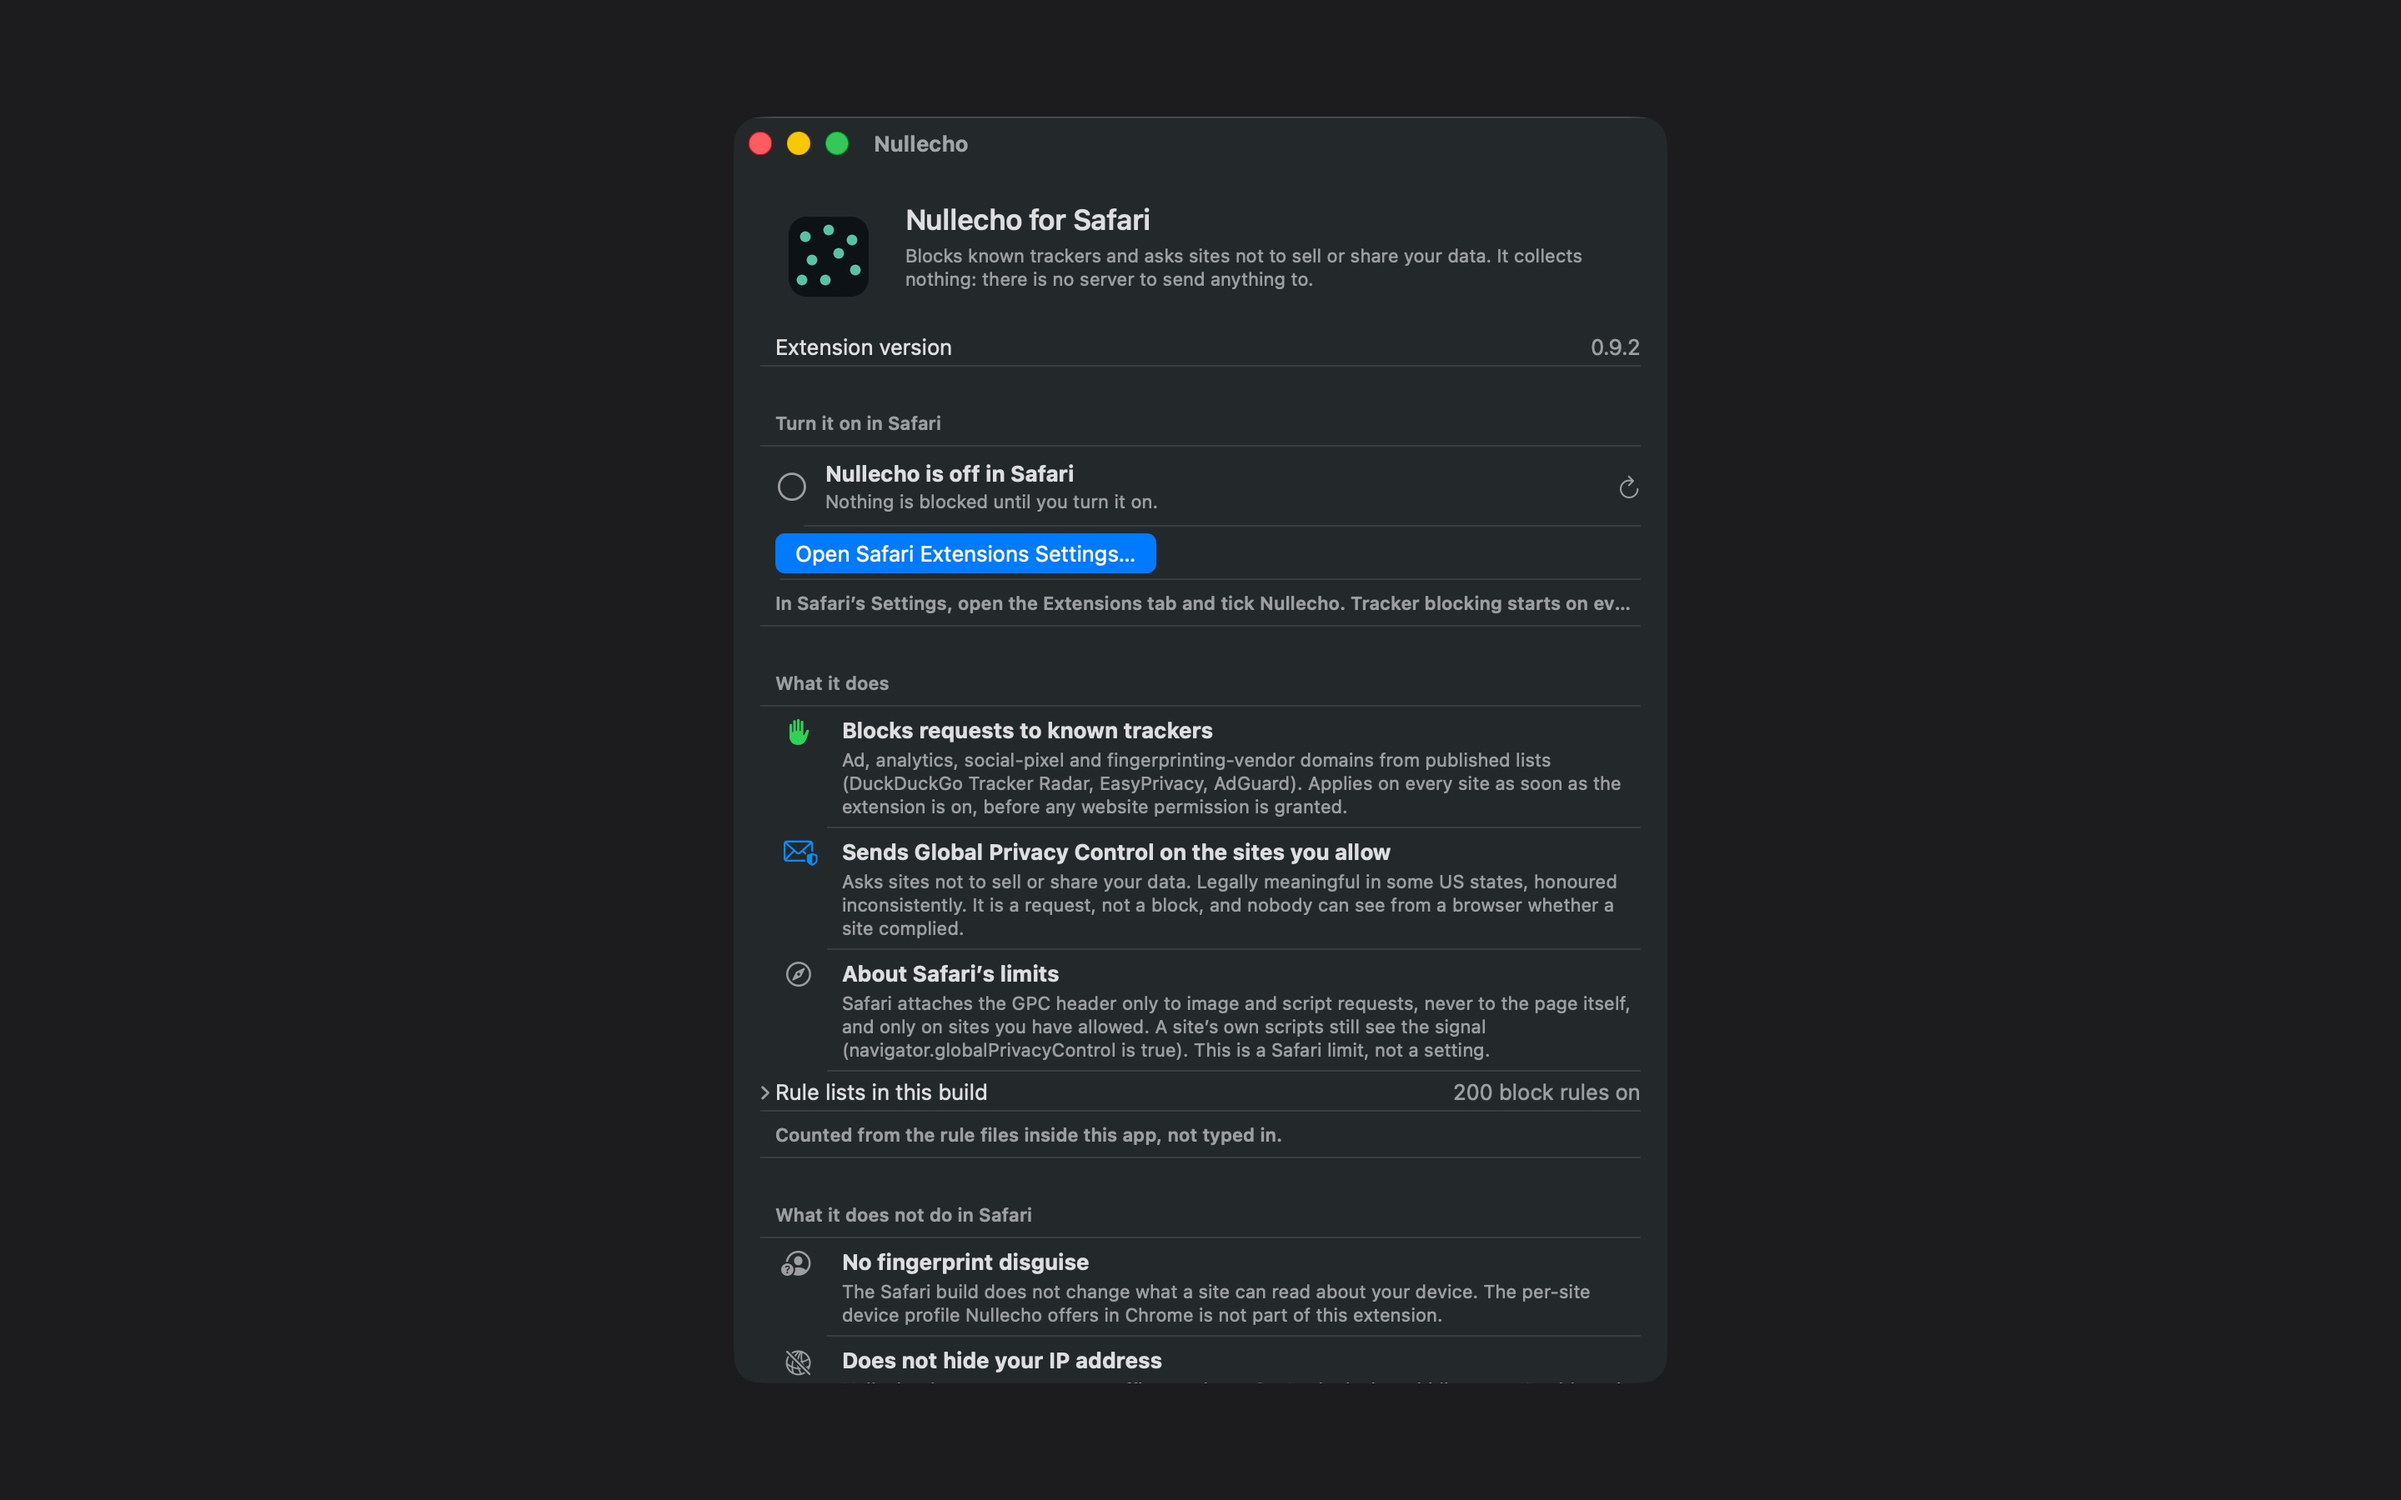
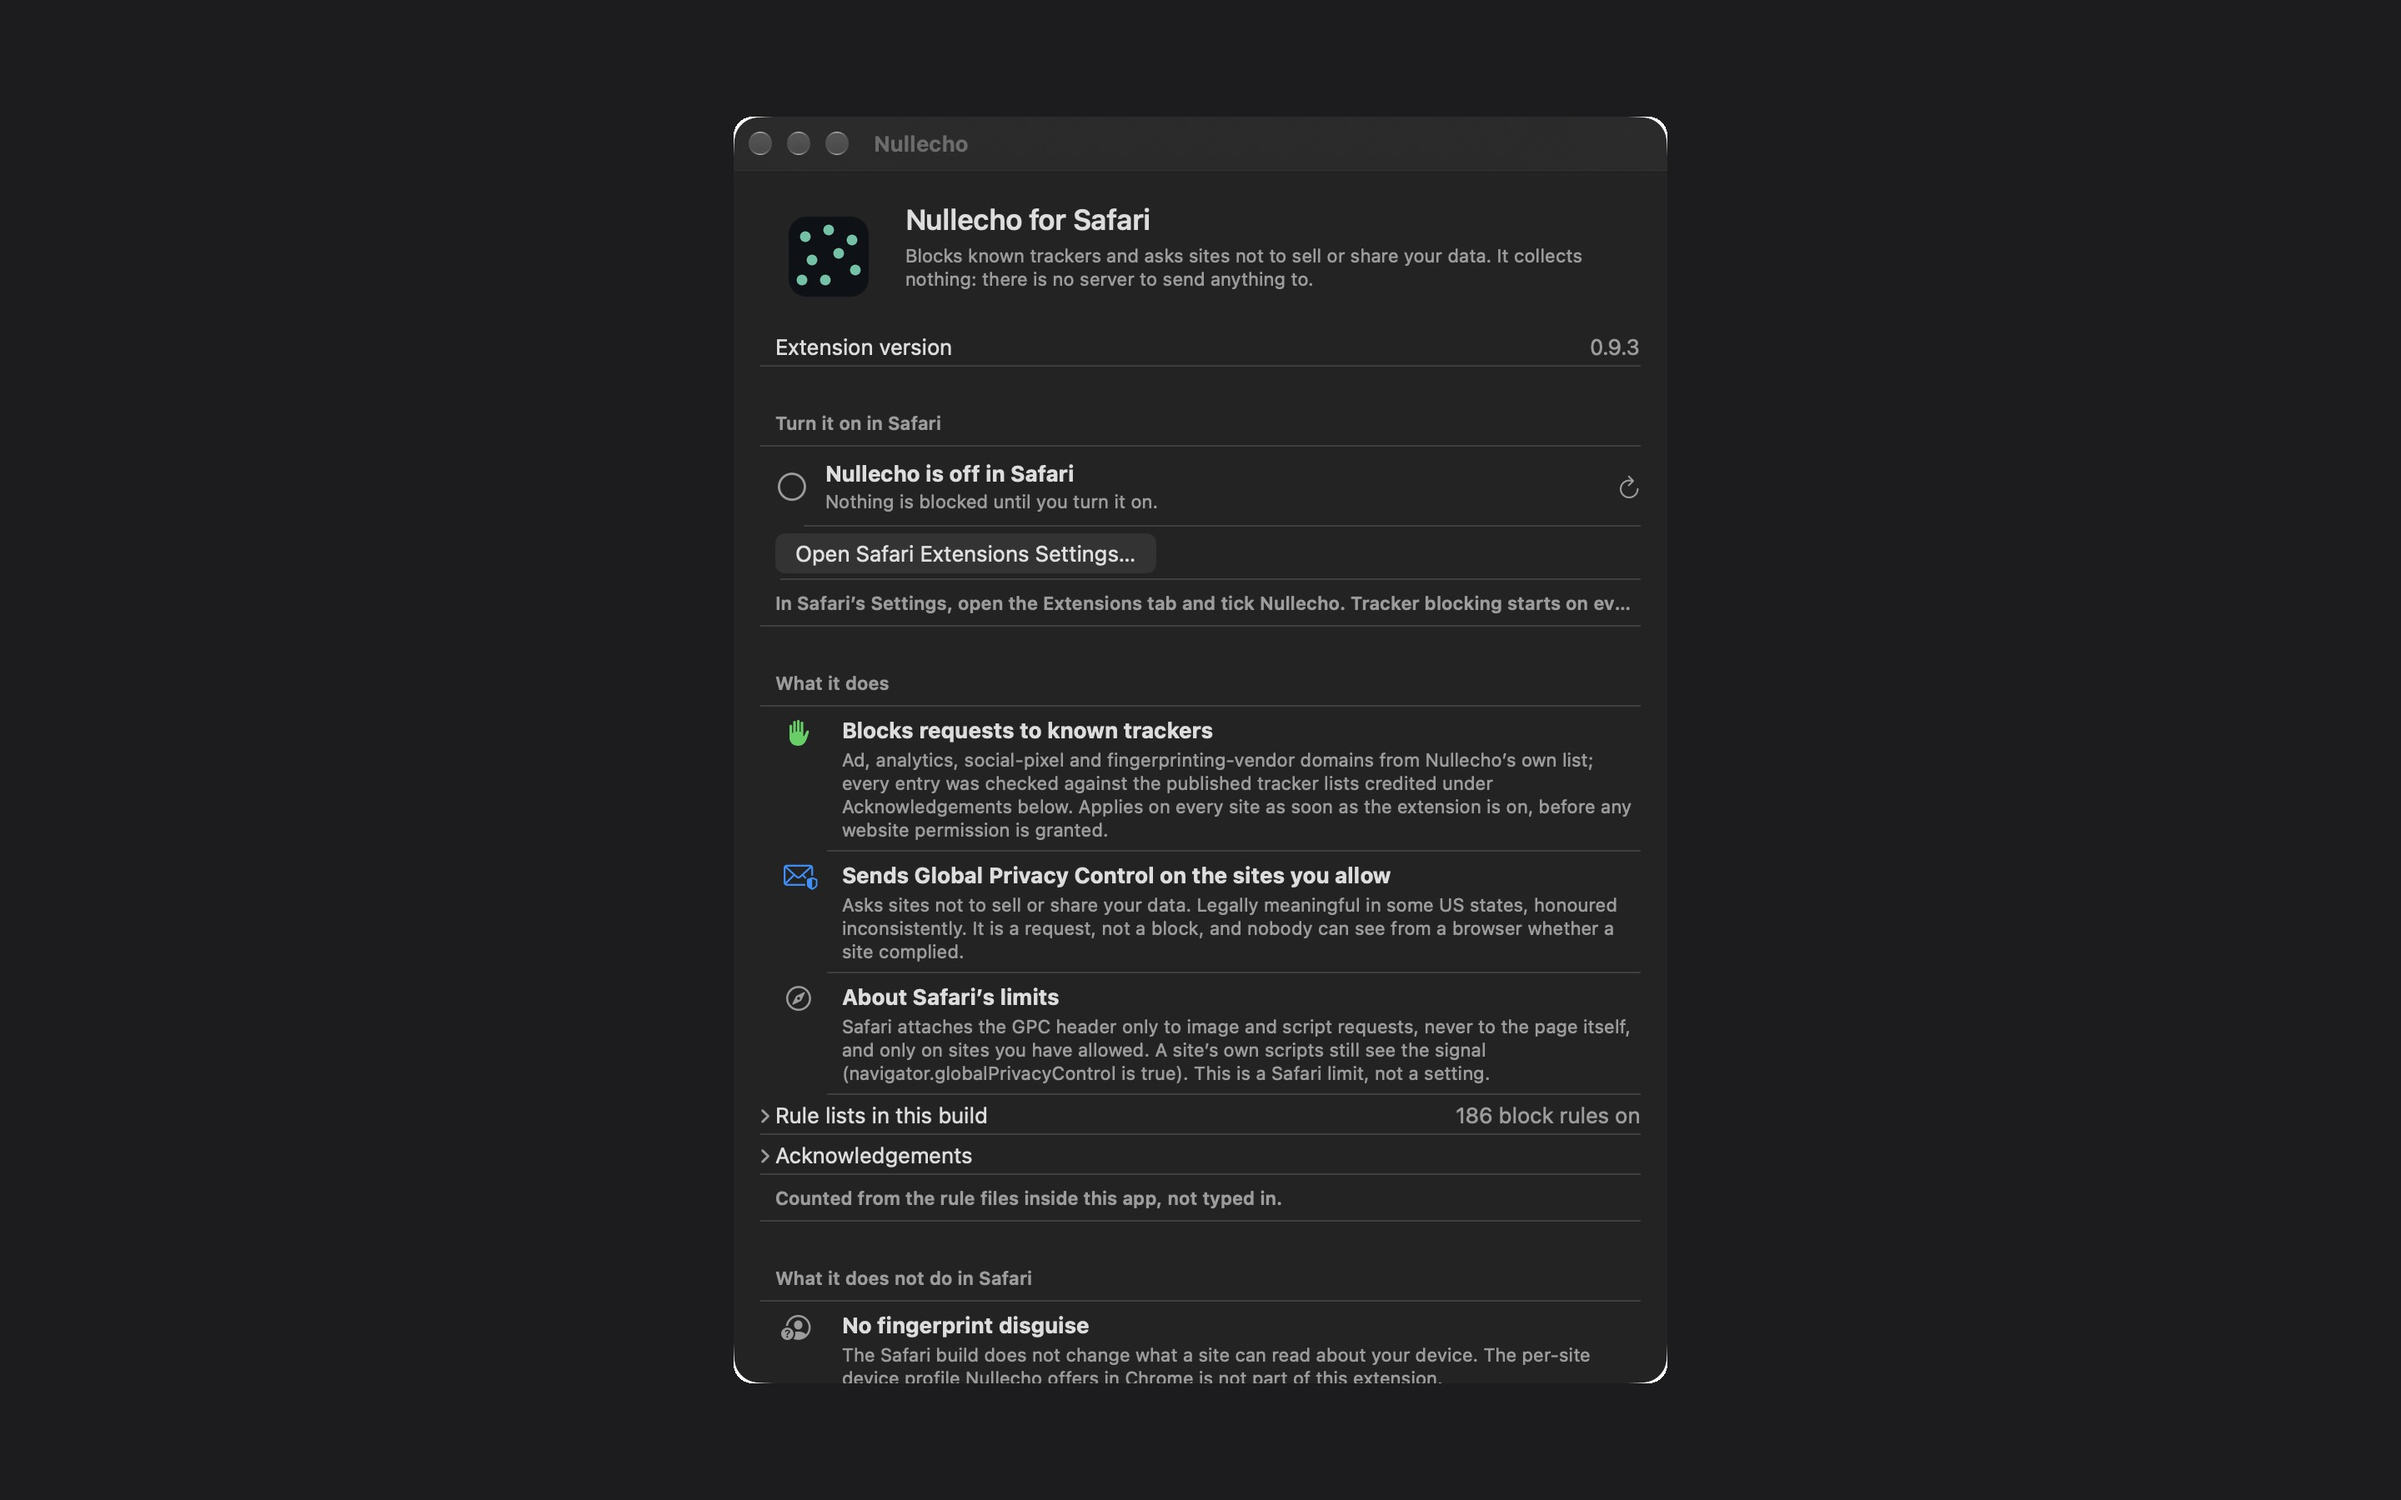
safari: Mac store shot re-captured from the signed 0.9.3 archive app; Mac set un-staled and pushed (APP_DESKTOP accepted)
The window of the uploaded macOS archive app (Nullecho-macOS-202610310142), dark appearance, live
"Nullecho is off in Safari" card, "Extension version 0.9.3", "186 block rules on": captured as four
full-density strips through the desktop app-window capture tool (owner's grant), stitched to 1120×1520,
corners masked, centred on a 2880×1800 dark background, JPEG. `screencapture -l` is refused from the
agent's shell (no Screen Recording grant), which is why the earlier Mac shot could not be refreshed.

listing.json: the Mac set no longer carries the `stale` flag; the tests now assert that no set is stale
and that the plan skips nothing. --apply uploaded the set: APP_DESKTOP accepted 2880×1800, COMPLETE.

diff --git a/safari/STORE-LISTING.md b/safari/STORE-LISTING.md
@@ -311,7 +311,7 @@ listed above, the answer for this app is None / No throughout.
 
 ## 7. Screenshots (`safari/store/`)
 
-iPhone and iPad sets captured 2026-10-31 from the **0.9.3** build (main 8fcc6d8 app sources, 186 block rules), the Mac set still 2026-10-15; real app, no frames or overlays (Review Guideline 2.3.3), no
+All three sets captured 2026-10-31 from the **0.9.3** build (main 8fcc6d8 app sources, 186 block rules); real app, no frames or overlays (Review Guideline 2.3.3), no
 alpha channel. iPhone and iPad shots are produced by a test in the repo —
 `safari/xcode/UITests/StoreScreenshotTests.swift` (run on its own with `-only-testing`, attachments exported with
 `xcrun xcresulttool export attachments`) — on iOS 27.0 (24A434) simulators in light appearance with the status
@@ -328,7 +328,7 @@ of `TipJarTests/testProductsLoadSortedByPriceWithDisplayPrices` on that simulato
 | `ipad-13-1-top.png` | 2064×2752 | iPad Pro 13-inch (M5) = the required iPad 13-inch class | as iPhone 1 |
 | `ipad-13-2-what-it-does.png` | 2064×2752 | same | as iPhone 2 |
 | `ipad-13-3-limits.png` | 2064×2752 | same | "What it does not do in Safari", "If a site misbehaves", "Support the project" with the four tips, "More": the 13-inch page ends here, so there is no fourth iPad shot (the test skips a frame identical to the previous one) |
-| `mac-1-top-2880x1800.jpg` | 2880×1800 (window 1120×1520 at 2×, centred on a flat dark background), JPEG so no alpha | Mac, the **signed** Release archive app (the unsigned Debug app cannot ask Safari and shows "Safari did not answer"); **dark appearance** — the Mac's system appearance; with light mode forced per-app the window could not be imaged | Top of the window: name, "Extension version 0.9.2", the live status card "Nullecho is off in Safari — Nothing is blocked until you turn it on" (the real state of the build machine), "What it does" |
+| `mac-1-top-2880x1800.jpg` | 2880×1800 (window 1120×1520 at 2×, rounded corners masked, centred on a flat dark background), JPEG so no alpha | Mac, the **signed** Release archive app that was uploaded to TestFlight (Nullecho-macOS-202610310142; the unsigned Debug app cannot ask Safari and shows "Safari did not answer"); **dark appearance** — the Mac's system appearance. Captured 2026-10-31 as four full-density strips of the window through the desktop app-window capture tool (the owner granted the app) and stitched; `screencapture -l` is refused from the agent's shell (no Screen Recording grant) | Top of the window: name, "Extension version 0.9.3", the live status card "Nullecho is off in Safari — Nothing is blocked until you turn it on" (the real state of the build machine), "What it does", "186 block rules on" |
 
 Upload order per device: iPhone 1 → 4, iPad 1 → 3. Apple's current requirements (§0): one iPhone medium-display set and one iPad
 13-inch set are required for iOS; a Mac set is required for the Mac version; the large-display iPhone sizes
@@ -408,7 +408,7 @@ Phrases checked as absent from every field (script run on the final strings): "p
    Store Connect offers it for this record (platform availability unverified).
 7. **September 2026 age-rating changes**: not found on Apple's pages; the live questionnaire dates from
    January 31, 2026.
-8. ~~Screenshot source build reads 0.9.1~~ — re-shot from the 0.9.2 build 2026-10-15 (§7). The Mac shot is dark and shows the extension off (the build machine's real state); a light one needs the owner's appearance setting.
+8. ~~Screenshot source build reads 0.9.1~~ — re-shot from the 0.9.2 build 2026-10-15, then all three sets from the 0.9.3 build 2026-10-31 (§7). The Mac shot is dark and shows the extension off (the build machine's real state); a light one needs the owner's appearance setting.
 9. **Support URL contact information**: Apple wants real contact details reachable from the support page.
 10. **Required iPhone screenshot class** is the medium display (1206×2622); that set is provided. No large-display set.
 
@@ -453,8 +453,8 @@ COMPLETE; the age rating declaration is app-level (one per appInfo); `healthOrWe
 review-details PATCH is refused while the contact fields are empty (the POST was not), so the tool leaves a record
 whose notes already match alone and reports a refused PATCH instead of failing; one upload per set stalled in
 `UPLOAD_COMPLETE` without a checksum and recovered only by delete + re-upload, which the tool now does by itself
-after 60 s. Still unverified: `APP_DESKTOP` for 2880×1800, because the Mac screenshot set is marked `stale` in the
-JSON and skipped until the Mac shot is re-captured.
+after 60 s. `APP_DESKTOP` accepted the 2880×1800 JPEG on the eighth pass the same day (the Mac set's `stale` flag removed once
+the shot was re-captured), so every screenshot set is verified against the live enum.
 
 Left in App Store Connect for the owner: availability (§3, EU trader status), App Privacy (§4, no API used here),
 Paid Apps agreement, tax and banking, the review contact if not supplied by environment, and the submit click.
